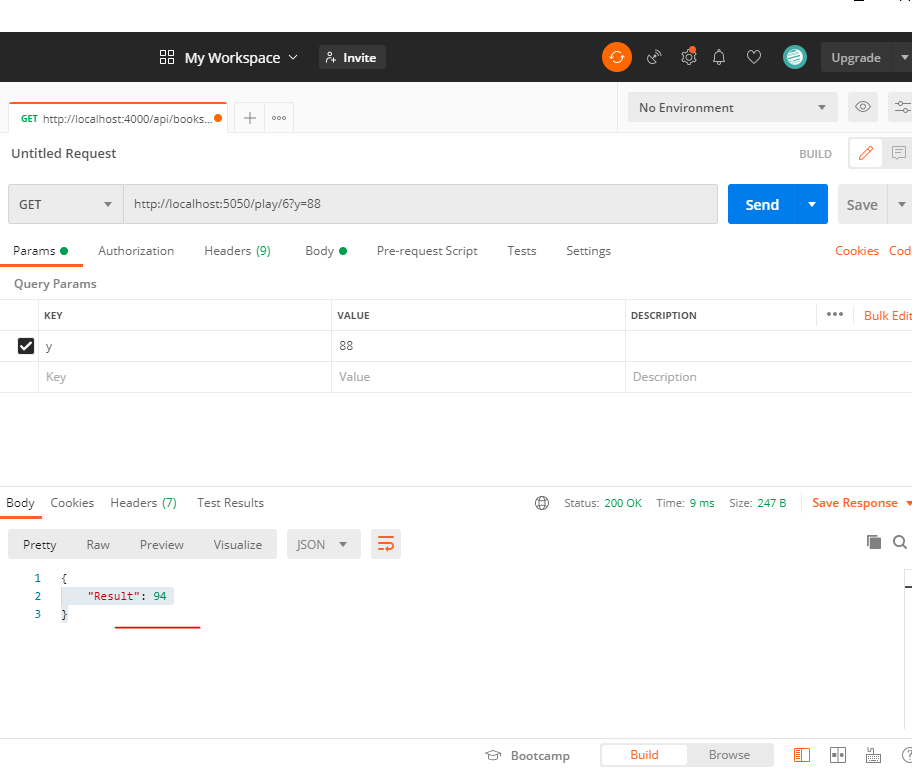
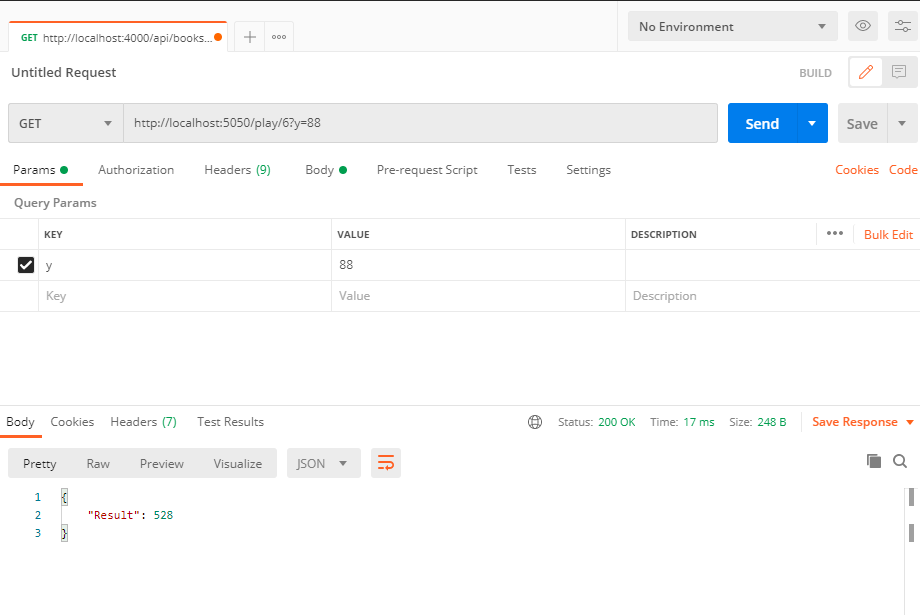
Improved code readability

diff --git a/app03/controllers/playController.js b/app03/controllers/playController.js
@@ -1,7 +1,7 @@
 module.exports.MultiplyNums = function(req, res) {
     let num1 = parseInt(req.params.x);
     let num2 = parseInt(req.query.y);
-    let results = num1+num2;
+    let results = num1*num2;
 
     console.log(`multiplying two numbers ${num1} and ${num2} yields ${results}`)
 
